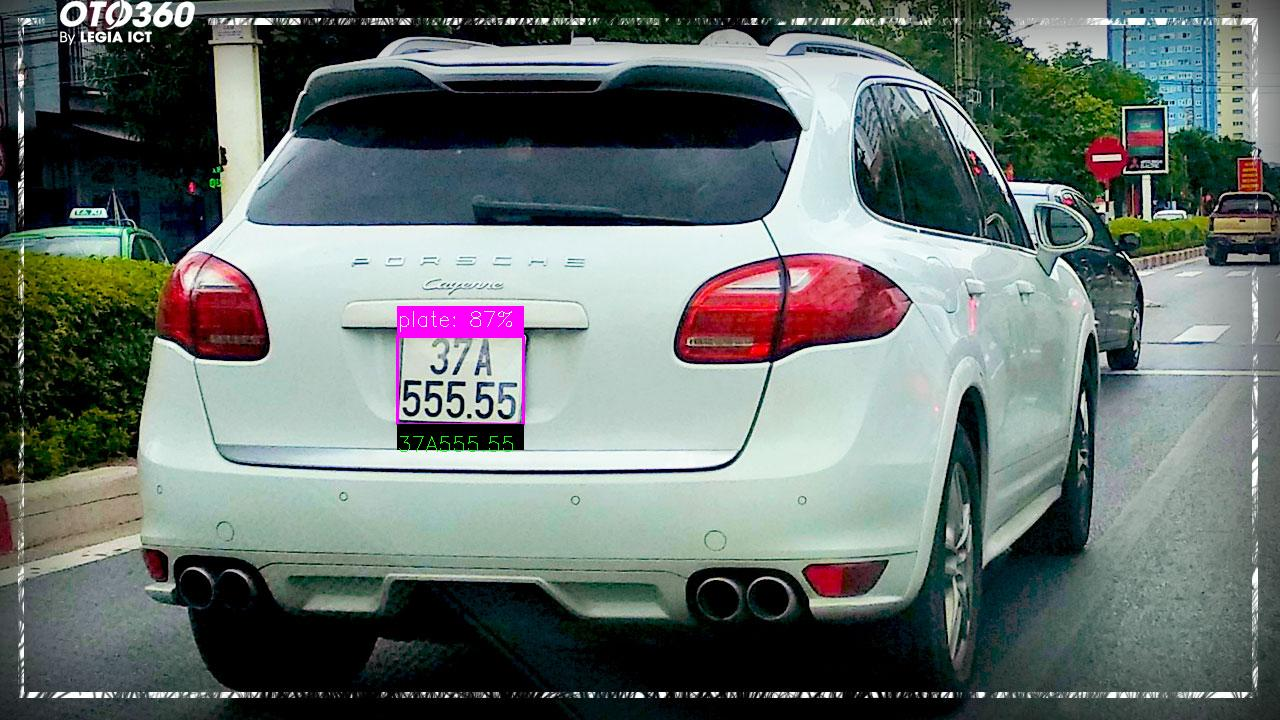
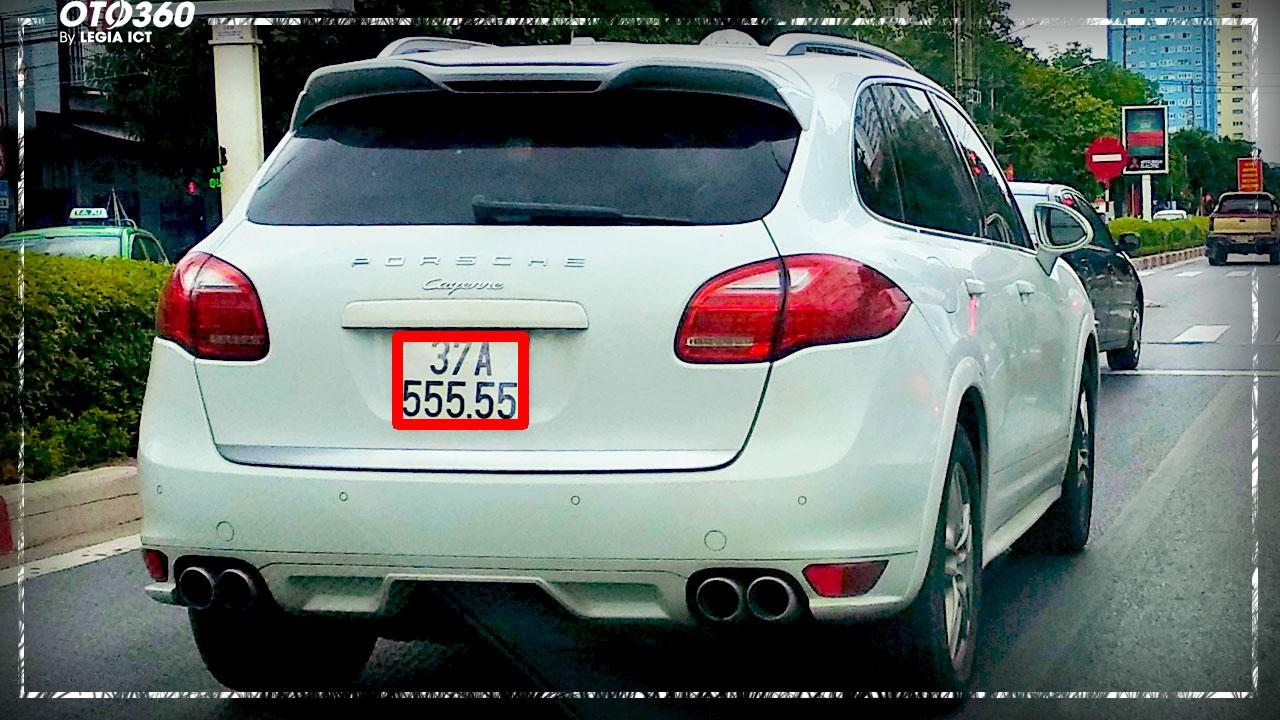
change8

Changed region(s): [[0.2812, 0.3972, 0.4375, 0.6417]]

diff --git a/main.py b/main.py
@@ -38,44 +38,66 @@ net = cv2.dnn.readNetFromONNX('./Model3/weights/best.onnx')
 net.setPreferableBackend(cv2.dnn.DNN_BACKEND_OPENCV)
 net.setPreferableTarget(cv2.dnn.DNN_TARGET_CPU)
 
+pt.pytesseract.tesseract_cmd = r'C:\Users\beose\AppData\Local\Programs\Tesseract-OCR\tesseract.exe'
+myconfig = r'--oem 3 --psm 11'
+#myconfig += r' -l eng'
+#myconfig += r' --c tessedit_char_whitelist=0123456789ABCDEFGHIJKLMNOPQRSTUVWXYZabcdefghijklmnopqrstuvwxyz'
+
+
+
 
 # Chọn ngôn ngữ (ví dụ: tiếng Anh và tiếng Việt)
 #languages = ['en', 'vi']
 
 # Cấu hình tham số cho detector và recognizer
-detector_params = {'name': 'craft', 'weights': 'craft_mlt_25k.pth'}
-recognizer_params = {'name': 'latin'}
+# detector_params = {'name': 'craft', 'weights': 'craft_mlt_25k.pth'}
+# recognizer_params = {'name': 'latin'}
 
 cropped_path = ""
 
-# Tạo đối tượng Reader
-reader = eo.Reader(
-    lang_list=['en'],
-    detector=detector_params,
-    recognizer=recognizer_params
-)
+# #Tạo đối tượng Reader
+# reader = eo.Reader(
+#     lang_list=['en', 'vi'],
+#     #detector=detector_params,
+#     #recognizer=recognizer_params
+# )
 
 # extrating text
 def extract_text(image,bbox):
     x,y,w,h = bbox
     roi = image[y:y+h, x:x+w]
     io.imsave(cropped_path, roi)
+    #res = pt.image_to_string(roi, config=myconfig)
     #fig = px.imshow(roi)
     #fig.show()
-    text = reader.readtext(roi)
-    res = ""
-    for dect in text:
-        res = res + dect[1]
-    return res
+    # text = reader.readtext(roi)
+    # res = ""
+    # for dect in text:
+    #     res = res + dect[1]
+    #return res
     # text = pt.image_to_string(roi);
     # text.strip()
     # return text
+    
+    #grayimage = cv2.cvtColor(roi, cv2.COLOR_BGR2GRAY)
+        #io.imsave('./demo.jpeg', grayimage)
+        #plt.imshow(grayimage, cmap='gray')
+        #plt.show()
+    
+    #text = pt.image_to_string(grayimage, config=myconfig)
+    #text = text.strip()
+    #return text
+    return ""
     # if 0 in roi.shape:
     #    return 'no number'
     # else:
-    #    text = pt.image_to_string(roi)
-    #    text = text.strip()
-    #    return text
+    #     grayimage = cv2.cvtColor(roi, cv2.COLOR_BGR2GRAY)
+    #     #io.imsave('./demo.jpeg', grayimage)
+    #     #plt.imshow(grayimage, cmap='gray')
+    #     #plt.show()
+    #     text = pt.image_to_string(grayimage, config=myconfig)
+    #     text = text.strip()
+    #     return text
 
 
 
@@ -142,7 +164,7 @@ def drawings(image,boxes_np,confidences_np,index):
         #conf_text = 'plate: {:.0f}%'.format(bb_conf*100)
 
         license_text = extract_text(image,boxes_np[ind])
-        #print("Plate is:" + license_text)
+        print("Plate is:" + license_text)
 
         cv2.rectangle(image,(x,y),(x+w,y+h),(255,0,0),10)
         #cv2.rectangle(image,(x,y-30),(x+w,y),(255,0,0),2)

diff --git a/app.py b/app.py
@@ -18,11 +18,15 @@ def index():
         img = main.io.imread('./static/upload/'+filename)
         results = main.yolo_predictions(img, main.net)
         main.io.imsave('./static/done/'+filename, img)
-        text = main.reader.readtext(main.cropped_path)
-        res = ""
-        for dect in text:
-            res = res + dect[1]
-        return render_template('index.html', upload=True, upload_image=filename, cropped_image=filename, text=res)
+        #trích xuất chữ
+        roi = main.io.imread(main.cropped_path)
+        grayimage = main.cv2.cvtColor(roi, main.cv2.COLOR_BGR2GRAY)
+        #grayimage = main.cv2.convertScaleAbs(grayimage, alpha=0.5, beta=0)
+        main.io.imsave('./ttt.jpeg', grayimage)
+        text = main.pt.image_to_string(grayimage, config=main.myconfig)
+        text = text.strip()
+    
+        return render_template('index.html', upload=True, upload_image=filename, cropped_image=filename, text=text)
 
     return render_template('index.html')
 

diff --git a/tempCodeRunnerFile.py b/tempCodeRunnerFile.py
@@ -1,2 +1,4 @@
-
-        img = io.imread('static/upload/'+filename+'.jpeg')
+text = reader.readtext(roi)
+    # res = ""
+    # for dect in text:
+    #     res = res + dect[1]
